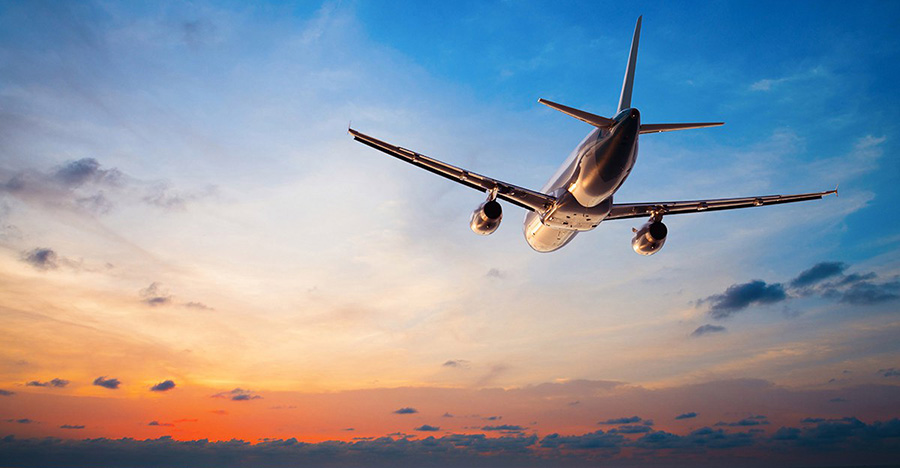
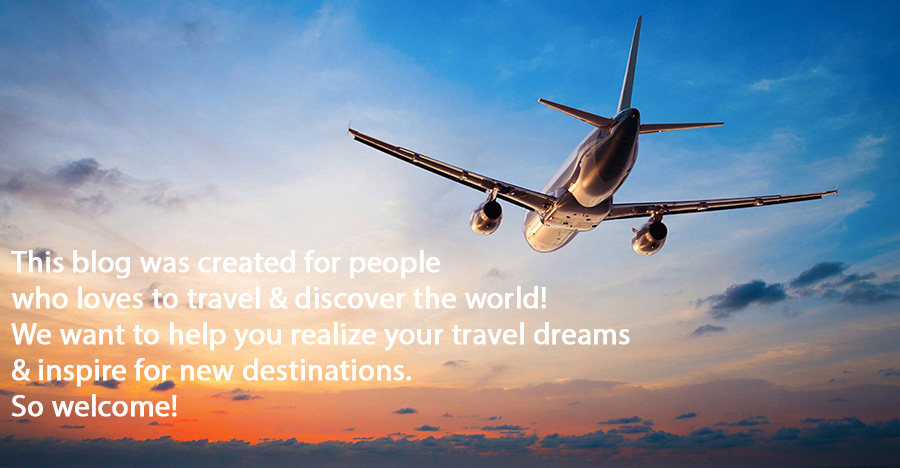
initial commit

Changed region(s): [[0.0, 0.688, 0.7156, 0.8974], [0.0, 0.5385, 0.6222, 0.6581]]

diff --git a/index.html b/index.html
@@ -19,7 +19,7 @@
 		<li><a href="index.html">HOME</a></li>
 		</ul>
 
-       <article><h1 class="absolute">This blog was created for people who loves to travel & discover the world!
+       <article><h1 class="relative">This blog was created for people who loves to travel & discover the world!
         We want to help you realize your travel dreams & inspire for new destinations. So welcome!</h1>
         <img class="background" src="img/plane-lg.jpg" alt="plane"></img></article>
        <h2 class="header2">LATEST BLOG POSTS</h2>

diff --git a/css/index.css b/css/index.css
@@ -7,12 +7,13 @@ header {
         color: white;
         text-align: right;
 }
-h1.absolute {
-    position: absolute;
-    font-family: Quicksand;
+h1.relative {
+    position: relative;
+    bottom: 100px;
+    font-family: Chonburi;
     font-size: 32px;
     width: 900px;
-    bottom: 90px;
+    
     color: black;
     text-align: center;
     }
